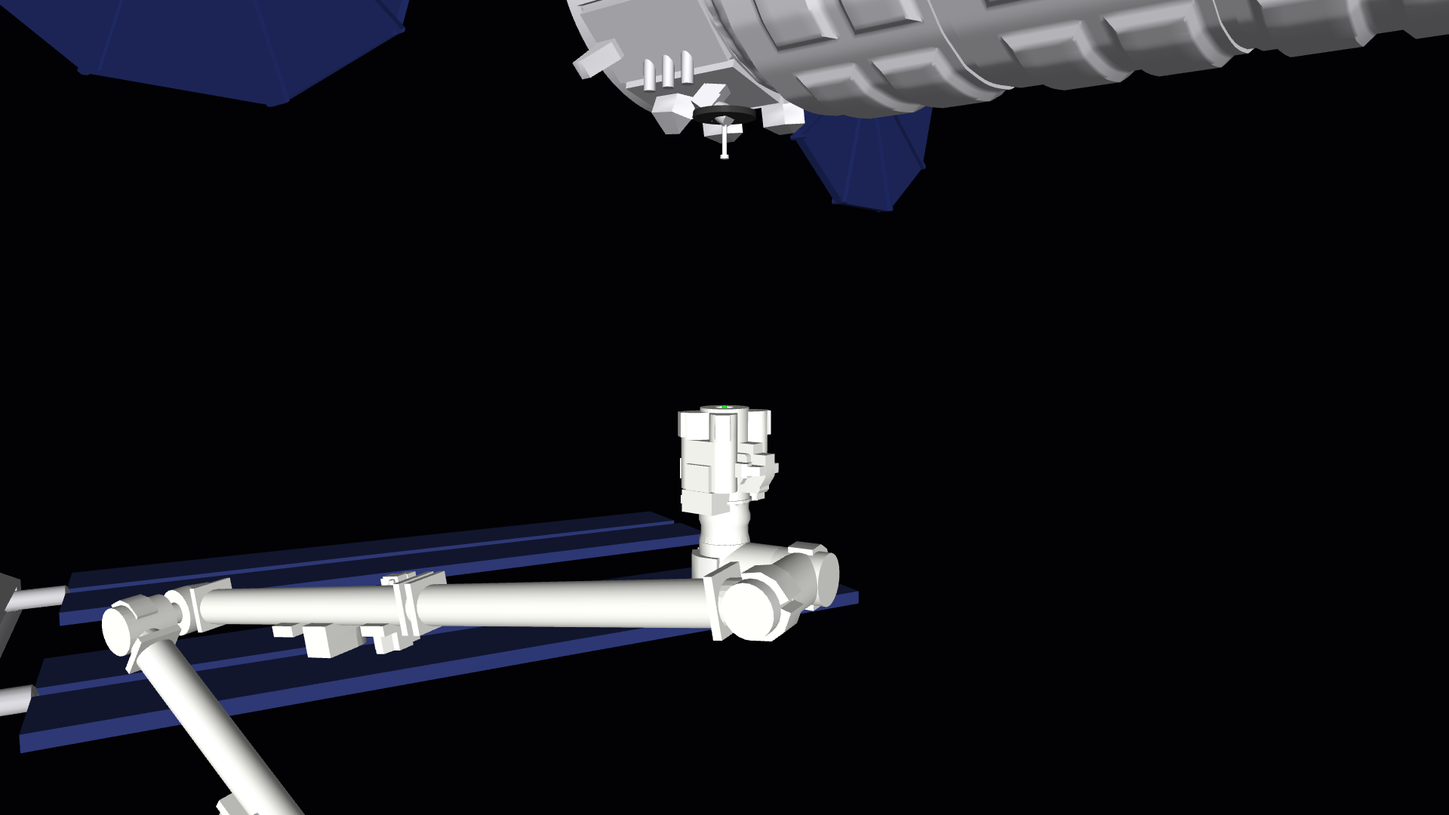
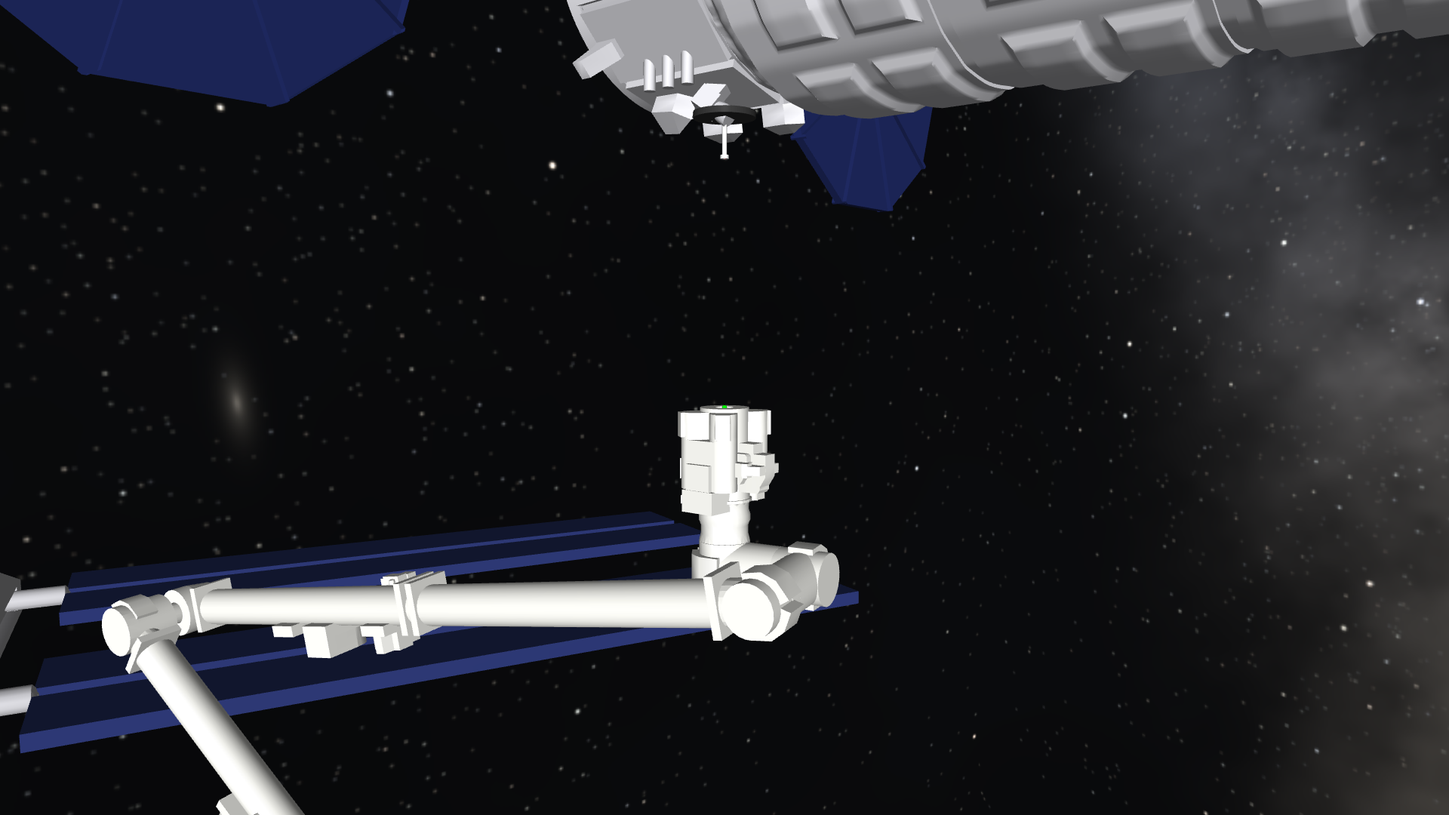
Restate the question, map the model's layers, and add a starry sky
The project's question is now general: when a contact-rich simulation
gives a result, how do you tell whether it is physics or an artefact of
how contact was modelled, and which modelling choices is it most
sensitive to? The capture is the case study. The two earlier questions
are kept in the plan for the record.

The plan gains the reasons for choosing this scenario, a map of the five
layers a contact-rich simulation has to account for, and a note on
treating guessed numbers as measurements with wide uncertainty.

scripts/make_sky.py paints an invented starry background as a cube map;
the scene uses it when the file exists. Appearance only.

Changed region(s): [[0.75, 0.0306, 1.0, 1.0], [0.125, 0.4583, 0.1875, 0.55]]

diff --git a/scripts/make_sky.py b/scripts/make_sky.py
@@ -1,0 +1,164 @@
+"""Paint a starry sky for the scene's background and save it as assets/processed/sky.png.
+
+    python scripts/make_sky.py [--size 1024] [--seed 7]
+
+The sky is invented: random stars, a band of glow with dust lanes standing in for the
+Milky Way, and a few faint smudges standing in for galaxies. It is not a map of the
+real sky. It is appearance only and changes nothing in the physics.
+
+The file is a cube map: six square faces stacked top to bottom in the order MuJoCo
+expects (+x, -x, +y, -y, +z, -z). scene.build_model uses it when it exists.
+"""
+
+import argparse
+from pathlib import Path
+
+import numpy as np
+from PIL import Image
+
+OUT = Path(__file__).resolve().parent.parent / "assets" / "processed" / "sky.png"
+
+# Direction of each pixel on a face, from its image coordinates s (right) and t (down),
+# both running from -1 to 1. The OpenGL cube map convention.
+FACES = [
+    lambda s, t: (np.ones_like(s), -t, -s),  # +x
+    lambda s, t: (-np.ones_like(s), -t, s),  # -x
+    lambda s, t: (s, np.ones_like(s), t),  # +y
+    lambda s, t: (s, -np.ones_like(s), -t),  # -y
+    lambda s, t: (s, -t, np.ones_like(s)),  # +z
+    lambda s, t: (-s, -t, -np.ones_like(s)),  # -z
+]
+
+
+def _unit(v) -> np.ndarray:
+    v = np.asarray(v, dtype=float)
+    return v / np.linalg.norm(v, axis=-1, keepdims=True)
+
+
+POLE = _unit([0.35, 0.45, 0.82])  # the bright band lies in the plane square to this
+
+
+def _lattice(ix, iy, iz, seed: int) -> np.ndarray:
+    """A repeatable pseudo-random number in [0, 1) for every integer lattice point."""
+    h = (ix * 374761393 + iy * 668265263 + iz * 2147483647 + seed * 1274126177) & 0xFFFFFFFF
+    h = ((h ^ (h >> 13)) * 1103515245) & 0xFFFFFFFF
+    return ((h ^ (h >> 16)) & 0xFFFFFF) / float(0x1000000)
+
+
+def _noise(p: np.ndarray, seed: int) -> np.ndarray:
+    """Smooth noise in 3D, so that it is continuous across the cube's edges."""
+    i = np.floor(p).astype(np.int64)
+    f = p - i
+    f = f * f * (3 - 2 * f)
+    out = 0.0
+    for dx in (0, 1):
+        for dy in (0, 1):
+            for dz in (0, 1):
+                w = (f[..., 0] if dx else 1 - f[..., 0]) * (f[..., 1] if dy else 1 - f[..., 1]) * (f[..., 2] if dz else 1 - f[..., 2])
+                out = out + w * _lattice(i[..., 0] + dx, i[..., 1] + dy, i[..., 2] + dz, seed)
+    return out
+
+
+def _clouds(d: np.ndarray, scale: float, seed: int, octaves: int = 5) -> np.ndarray:
+    """Layered noise in [0, 1]: big soft shapes with finer detail on top."""
+    total, amp, norm = 0.0, 1.0, 0.0
+    for k in range(octaves):
+        total = total + amp * _noise(d * scale * 2**k + 17.0 * k, seed + k)
+        norm += amp
+        amp *= 0.55
+    return total / norm
+
+
+def _galaxies(rng: np.random.Generator) -> list[tuple]:
+    """A few distant galaxies: where each is, how it is turned, its size, and its brightness."""
+    out = []
+    while len(out) < 4:
+        c = _unit(rng.normal(size=3))
+        if abs(c @ POLE) < 0.35:
+            continue  # keep them out of the band, where they would not be seen
+        a = _unit(np.cross(c, rng.normal(size=3)))
+        out.append((c, a, np.cross(c, a), np.radians(rng.uniform(0.5, 1.6)), rng.uniform(0.25, 0.8), rng.uniform(0.10, 0.22)))
+    return out
+
+
+def _glow(d: np.ndarray, galaxies: list[tuple], seed: int) -> np.ndarray:
+    """Colour of the diffuse sky in each direction d (unit vectors), before stars."""
+    centre = _unit(np.cross(POLE, [0.0, 0.0, 1.0]))  # brightest part of the band
+    lat = np.arcsin(np.clip(d @ POLE, -1, 1))
+    toward = d @ centre
+    lat = lat + np.radians(5.0) * (_clouds(d, 2.0, seed + 30, 3) - 0.5)  # a ragged edge
+    width = np.radians(5.5) * (1.0 + 1.1 * np.clip(toward, 0, 1) ** 3)
+    band = np.exp(-((lat / width) ** 2)) * (0.3 + 0.7 * np.clip(0.5 + 0.5 * toward, 0, 1) ** 2)
+    texture = np.clip((_clouds(d, 5.0, seed) - 0.3) * 2.2, 0, 1) ** 1.5
+    dust = np.clip((_clouds(d, 9.0, seed + 50) - 0.42) * 5.0, 0, 1) * np.exp(-((lat / np.radians(3.5)) ** 2))
+    level = band * (0.12 + 1.1 * texture) * (1.0 - 0.9 * dust)
+    warm = np.clip(toward, 0, 1)[..., None] ** 2  # yellower toward the centre, bluer away from it
+    tint = (1 - warm) * np.array([0.62, 0.72, 1.0]) + warm * np.array([1.0, 0.86, 0.66])
+    rgb = 0.2 * level[..., None] * tint
+    # a faint uneven haze everywhere, so the dark is not perfectly flat
+    rgb = rgb + 0.002 * _clouds(d, 1.5, seed + 90)[..., None] * np.array([0.6, 0.7, 1.0])
+
+    for c, a, b, size, squash, brightness in galaxies:  # soft elliptical smudges
+        r2 = ((d @ a) / size) ** 2 + ((d @ b) / (size * squash)) ** 2
+        smudge = np.where(d @ c > 0, np.exp(-np.sqrt(r2) * 1.6) + 0.5 * np.exp(-r2 * 6.0), 0.0)
+        rgb = rgb + brightness * smudge[..., None] * np.array([1.0, 0.92, 0.8])
+    return rgb
+
+
+def _add_stars(faces: np.ndarray, rng: np.random.Generator, n: int) -> None:
+    """Scatter stars over the cube. Most are faint; a few are bright and slightly coloured."""
+    size = faces.shape[1]
+    d = _unit(rng.normal(size=(3 * n, 3)))
+    # crowd more of them toward the band
+    keep = rng.random(3 * n) < 0.25 + 0.75 * np.exp(-((np.arcsin(np.clip(d @ POLE, -1, 1)) / np.radians(14.0)) ** 2))
+    d = d[keep][:n]
+    brightness = np.clip(0.03 * rng.pareto(1.5, size=len(d)) + 0.02, 0, 5.0)
+    temperature = rng.random(len(d))
+    colour = np.stack([0.75 + 0.25 * temperature, 0.82 + 0.1 * np.sin(np.pi * temperature), 1.0 - 0.3 * temperature], axis=1)
+
+    ax = np.argmax(np.abs(d), axis=1)
+    sign = np.sign(d[np.arange(len(d)), ax])
+    face = 2 * ax + (sign < 0)
+    x, y, z = d[:, 0], d[:, 1], d[:, 2]
+    m = np.abs(d[np.arange(len(d)), ax])
+    # the inverse of FACES: image coordinates of each direction on its face
+    s = np.choose(face, [-z, z, x, x, x, -x]) / m
+    t = np.choose(face, [-y, -y, z, -z, -y, -y]) / m
+    px, py = (s + 1) / 2 * size - 0.5, (t + 1) / 2 * size - 0.5
+    for f, cx, cy, b, c in zip(face, px, py, brightness, colour):
+        radius = 1 if b < 0.8 else (2 if b < 2.5 else 3)
+        x0, y0 = int(round(cx)), int(round(cy))
+        xs = np.arange(max(0, x0 - radius), min(size, x0 + radius + 1))
+        ys = np.arange(max(0, y0 - radius), min(size, y0 + radius + 1))
+        if not len(xs) or not len(ys):
+            continue
+        spread = 0.38 + 0.12 * radius
+        spot = np.exp(-((xs[None, :] - cx) ** 2 + (ys[:, None] - cy) ** 2) / (2 * spread**2))
+        faces[f, ys[:, None], xs[None, :]] += b * spot[..., None] * c
+
+
+def main() -> None:
+    parser = argparse.ArgumentParser(description=__doc__.split("\n")[0])
+    parser.add_argument("--size", type=int, default=1024, help="pixels along each cube face")
+    parser.add_argument("--seed", type=int, default=7)
+    parser.add_argument("--stars", type=int, default=30000)
+    args = parser.parse_args()
+
+    rng = np.random.default_rng(args.seed)
+    grid = (np.arange(args.size) + 0.5) / args.size * 2 - 1
+    s, t = np.meshgrid(grid, grid)
+    faces = np.empty((6, args.size, args.size, 3))
+    galaxies = _galaxies(rng)
+    for i, direction in enumerate(FACES):
+        d = _unit(np.stack(direction(s, t), axis=-1))
+        faces[i] = _glow(d, galaxies, args.seed)
+    _add_stars(faces, rng, args.stars)
+
+    image = np.clip(faces, 0, 1) ** (1 / 2.2)  # brightness to screen values
+    OUT.parent.mkdir(parents=True, exist_ok=True)
+    Image.fromarray((255 * image.reshape(6 * args.size, args.size, 3)).astype(np.uint8)).save(OUT, optimize=True)
+    print("wrote", OUT.relative_to(OUT.parent.parent.parent), f"({OUT.stat().st_size / 1e6:.1f} MB)")
+
+
+if __name__ == "__main__":
+    main()

diff --git a/capture/scene.py b/capture/scene.py
@@ -108,6 +108,19 @@ def _add_rim(spec: mujoco.MjSpec) -> None:
     plate.contype, plate.conaffinity = 0, RIM_BIT
 
 
+SKY = MESH_DIR / "sky.png"  # painted by scripts/make_sky.py
+
+
+def _use_sky(spec: mujoco.MjSpec) -> None:
+    """Replace the flat black background with the painted starry sky. Appearance only."""
+    sky = next(t for t in spec.textures if t.type == mujoco.mjtTexture.mjTEXTURE_SKYBOX)
+    sky.builtin = mujoco.mjtBuiltin.mjBUILTIN_NONE
+    sky.file = str(SKY)
+    sky.gridsize = [6, 1]
+    sky.gridlayout = "RLUDFB"
+    sky.width = sky.height = 0
+
+
 def meshes_available() -> bool:
     names = [*geometry.ARM_MESHES.values(), *geometry.VEHICLE_MESHES, *geometry.STATION_MESHES]
     return all((MESH_DIR / f"{n}.stl").exists() for n in names)
@@ -192,6 +205,8 @@ def build_model(
         meshes = meshes_available()
     if meshes:
         _use_meshes(spec)
+    if meshes and SKY.exists():
+        _use_sky(spec)
     return spec.compile()
 
 

diff --git a/scripts/plan_diagram.py b/scripts/plan_diagram.py
@@ -23,7 +23,7 @@ EXPERIMENTS = [
 ]
 
 # One line on what is happening right now, shown under the title.
-NOW = "Rim contact fixed: no snared pin is lost.  Next: rerun the sensitivity pilot, then restate the questions."
+NOW = "New question: is a simulated contact result physics or artefact?  Next: Dara works through the model, contact first."
 
 W, H = 1600, 860
 BG, CARD, EDGE = "#0f1b2d", "#1b2a40", "#2b3d57"

diff --git a/docs/PLAN.md b/docs/PLAN.md
@@ -7,25 +7,47 @@ Last updated: 2026-10-11.
 
 The diagram is generated by `scripts/plan_diagram.py`. Change a status there and rerun it.
 
-## The questions
+## The question
 
-**Main question.** Which of the model's assumptions decide where the simulated capture fails?
+**When a contact-rich simulation gives a result, how do you tell whether it is physics or an artefact of how contact was modelled, and which modelling choices is the result most sensitive to?**
 
-Take the point at which capture stops working, change one uncertain assumption at a time, and measure how far that point moves. The answer is a ranking: which parameters would be worth measuring carefully on real hardware, for this task and this model. It ties back to the claim the project started from, that contact-rich tasks depend on contact geometry, friction, compliance, and actuator behaviour.
+The capture is the case study, not the subject. The answer is meant to carry to any simulator and any task where a robot has to make and keep contact: a hand closing on a mug, a foot on gravel, a peg entering a hole. It has two parts:
 
-**Second question, about the mechanics.** Why do snared pins get lost?
+1. *Checks that catch a result that is not physics.* Does energy appear from nowhere? Are contact forces far beyond anything the machine can produce? Does the result change when a surface is represented a different way?
+2. *A ranking of what the result depends on.* Change one uncertain modelling choice at a time and measure how far the outcome moves.
 
-In harsh conditions most failures are pins that the snare closed on and that then escaped. What sets the limit: closing in time, or absorbing the motion left over once the snare has closed?
+The project already has one worked example of the first part. Until 2026-10-11 the model lost most snared pins in harsh conditions. Three physical explanations were written for it. All were wrong: the contact solver was failing on one pair of shapes, and changing how that one surface was represented took captures from 3 of 30 to 30 of 30.
 
-Both questions are about this simplified model. Neither claims to be new, and neither says anything directly about Canadarm2.
+The two earlier questions are kept for the record:
 
-## Why this project
+- *Which of the model's assumptions decide where the simulated capture fails?* This is now the second part of the question above, asked of this model.
+- *Why do snared pins get lost?* Answered on 2026-10-11: a contact failure in the model.
 
-Canadarm2 already captures cargo vehicles such as Cygnus, routinely. Nothing here is needed by that operation, and its real limits may be fully characterised in documents that are not public. A failure in this model is a failure of this model.
+## Why this scenario
 
-The capture is chosen as a concrete case for learning contact-rich robotics and simulation. Reaching the target is only the start: the arm has to make and keep contact with an object that is free to move, so the contact itself can change the outcome. That ties together tracking, mechanism geometry, contact forces, and simulation assumptions, which is the same set of concerns behind contact-rich manipulation on Earth.
+Canadarm2 already captures cargo vehicles such as Cygnus, routinely. This project solves no problem for that operation, and its real limits may be fully characterised in documents that are not public. A failure in this model is a failure of this model.
 
-The project is worthwhile as an engineering study if the model is transparent, the experiments are careful, the failures are explained, and the limits are stated. Whether it also yields a new finding is open, and would have to come from the results. No literature gap is claimed in advance.
+The scenario is chosen because it is harder than an arm on a desk picking up a mug, and it is real. The target weighs seven tonnes and is free to move. In zero gravity nothing holds it still, so a touch in the wrong place pushes it away, next to a crewed station. Reaching the target is only the start: the arm has to make and keep contact with it. And zero gravity strips away almost everything except contact, which makes it a clean place to see what a simulator's contact model is doing.
+
+There is also a personal aim. Dara is not from the space industry, and is building this to learn, by trying to replicate a real operation, everything a contact-rich simulation has to get right. The interest behind it is physical AI: robots are trained and tested in simulation, which only works if the simulated contact can be trusted.
+
+The project is worthwhile if the model is transparent, the experiments are careful, the failures are explained, and the limits are stated. No literature gap is claimed in advance.
+
+## What a contact-rich simulation has to account for
+
+Every design decision in this project belongs to one of five layers.
+
+| Layer | What has to be decided | Here |
+|---|---|---|
+| The world | What exists, its mass and where that mass sits, how parts are joined, gravity, what is fixed and what is free | `models/capture_base.xml`, `capture/scene.py` |
+| Contact | The simple shapes used for collision, which pairs may touch, how overlap becomes force, friction | The same files. This is where the lost-pin failure was |
+| The machine | Motors and their force limits and stiffness; mechanisms, and which are modelled and which are substitutes | Arm servos, snare drive, pull-in carriage, latch force |
+| The brain | What the controller can sense, how late and how noisy; how it turns that into commands; when it gives up | `capture/sensing.py`, `capture/controller.py` |
+| The experiment | Time step, repeatable scenarios, what counts as success, sanity checks, where each number comes from, what survives a change | `capture/trial.py`, `capture/batch.py`, `experiments/`, this plan |
+
+The first four layers are where modelling choices live. The fifth is how to find out which of them a result depends on.
+
+**Uncertainty.** Each number in the model is measured, required, borrowed, or guessed, and the tables below say which. A guessed number is treated like a measurement with a wide uncertainty in a physics lab: vary it across its plausible range and see how far the result moves. That is what the sensitivity experiments are.
 
 ## Definitions
 
@@ -82,7 +104,7 @@ A capture also has three stages of "done":
 
 Notes on the experiments:
 
-- **After the rim fix (2026-10-11).** With the plate seating on a ring of spheres, no pin is lost in any variant of the harsh batch: all 30 snared attempts are captured. The second question is answered (lost pins were a contact failure in the model). The first has lost its main pilot result, which came from the old rim. New leads: at friction 0.6, 20 of 30 snared attempts end caught but not rigid; and half the harsh batch never reaches the pin at all. The questions at the top of this plan need restating with Dara before experiments A and B are designed.
+- **After the rim fix (2026-10-11).** With the plate seating on a ring of spheres, no pin is lost in any variant of the harsh batch: all 30 snared attempts are captured. The sensitivity pilot's main result came from the old rim and has to be rerun. New leads: at friction 0.6, 20 of 30 snared attempts end caught but not rigid; and half the harsh batch never reaches the pin at all. Experiments A, B, and C are to be redesigned around the question at the top of this plan, after Dara has worked through the model's layers.
 - **After the load pilot (2026-10-11).** Every lost capture in the harsh batch ended in a numerical contact failure: tumble tilted the fixture plate into the end effector's rim, and the solver returned meganewton forces that threw the vehicle off. "Lost" counts before the rim fix measure that artefact.
 - **After the pilots.** Experiments A and B are not yet redesigned. The pilots found that the largest effect by far is a controller choice (when the arm goes limp), and that lost pins escape through soft stops and bar coupling in the rigid-bar snare. Both need deciding on before the full experiments are fixed. See the last two build log entries of 2026-10-10.
 
@@ -141,6 +163,9 @@ Notes on the experiments:
 | 2026-10-10 | Build option for the snare drive's force limit; controller option to go limp as soon as the snare closes | Needed to vary them one at a time in the pilots | Current. Both off by default; the default behaviour is unchanged |
 | 2026-10-11 | Hold the full experiments until the plate-on-rim contact is fixed | The load pilot showed all 50 lost captures in the harsh batch end in a solver blow-up at that contact | Done the same day |
 | 2026-10-11 | Fixture plate seats on a ring of 32 spheres, and collides with nothing else | The tops of the overlapping wall boxes gave the plate redundant contacts that the solver resolved with forces of up to 2.3 MN | Current. `rim="boxes"` rebuilds the old rim |
+| 2026-10-11 | One general question replaces the two specific ones: is a contact-rich result physics or artefact, and what is it sensitive to? | The capture solves no problem for the space industry. The answer should carry across physical AI and physics simulation | Current |
+| 2026-10-11 | Dara builds and Claude explains: work through the five layers one at a time, starting with contact | The point of the project is to learn the system design well enough to explain it | Current |
+| 2026-10-11 | Painted starry background, generated by `scripts/make_sky.py` | The scene was black. Appearance only; an invented sky, not a star map | Current |
 | 2026-10-10 | Treat the station as fixed and the arm as rigid | The station is about 60 times heavier than the vehicle; arm flexibility is left out to keep the first version simple | Current |
 
 ## Values the model uses, by where they come from

diff --git a/CLAUDE.md b/CLAUDE.md
@@ -2,6 +2,12 @@
 
 MuJoCo study of a station arm capturing a free-floating vehicle. Portfolio project; the build process is documented as carefully as the code.
 
+The question (agreed 2026-10-11): when a contact-rich simulation gives a result, how do you tell whether it is physics or an artefact of how contact was modelled, and which modelling choices is the result most sensitive to? The capture is the case study. It solves no problem for the space industry.
+
+## How to work with Dara
+
+Dara wants to be the one who builds this and to understand the system design well enough to explain it. Explain before changing. Prefer walking Dara through a change, or having them make it and predict the result, over doing it silently. The plan lists five layers (world, contact, machine, brain, experiment); the agreed path is to go through them one at a time, starting with contact.
+
 ## Documentation routine
 
 Do this as part of every piece of work, not at the end:
@@ -20,6 +26,7 @@ Do this as part of every piece of work, not at the end:
 - Renders: `.venv/bin/python scripts/render_scene.py`
 - Plan diagram: `.venv/bin/python scripts/plan_diagram.py`
 - Fetch 3D models (git-ignored, needed for mesh renders): `.venv/bin/python scripts/fetch_assets.py`
+- Starry background (git-ignored, appearance only): `.venv/bin/python scripts/make_sky.py`
 - Interactive viewer: `.venv/bin/mjpython scripts/view.py`
 
 ## Constraints
@@ -46,6 +53,6 @@ Read `docs/PLAN.md` (questions, milestones, decisions), `docs/RESEARCH.md` (sour
 - Pilots so far are written up in the build log (entries of 2026-10-10 and 2026-10-11). Tables are in `docs/data/`; files ending `_box_rim` are from before the rim fix. Before rerunning a pilot because a table is missing, check it is not still running (`pgrep -fl experiments/pilot_`).
 - Found 2026-10-11: every "lost" capture was a numerical contact failure where the tilted fixture plate met the tops of the overlapping wall boxes. Fixed the same day: the plate now seats on a ring of spheres (`scene._add_rim`; `rim="boxes"` rebuilds the old rim). In the harsh batch all 30 snared attempts are now captured, in every variant except friction 0.6 (10 captured, 20 caught but not rigid).
 - All batch results from before the fix, including the sensitivity pilot's "limp at close doubles the failure point", describe the old rim. `docs/data/pilot_sensitivity.csv` does not exist yet: the sensitivity pilot still has to be rerun (about 20 minutes on all cores; it was held because the laptop was on low battery).
-- Question 2 in the plan is answered and question 1 has lost its main pilot result. The questions need restating with the user before experiments A and B are designed. Do not run them unasked.
+- The plan's question was restated on 2026-10-11 (see the top of this file). Experiments A, B, and C are to be redesigned around it after Dara has worked through the layers. Do not run them unasked.
 - When investigating a failure, log contact forces and kinetic energy before explaining it. Three explanations of lost pins were written before anyone did.
 - Two Claude Code sessions once edited this repository at the same time and their work was mixed in one commit. Check `git status` and `git log` before editing.

diff --git a/docs/DEVLOG.md b/docs/DEVLOG.md
@@ -807,3 +807,23 @@ One attempt in each variant fires and misses, as before.
 - Every batch table before this entry, including R4's, was produced with the old rim.
 
 **Not done.** Experiments A and B are still undesigned. The plan's two questions need restating, since the second is answered and the first has lost its main result.
+
+## 2026-10-11 · Stepping back: what the project is for
+
+**Why.** Dara stopped the work to ask what problem this solves, why this industry, whether the real operation is already solved, and how any of it connects to physical AI and physics simulation. The plan's two questions had become specific to this model, and the work had been running ahead of Dara's own understanding of it.
+
+**Answers, in short.**
+
+- It solves no problem for the space industry. Canadarm2 does this routinely with a forgiving mechanism, a cooperative target, and a trained operator.
+- The scenario was chosen because it is harder and more consequential than a desk arm and a mug, and because zero gravity leaves contact as nearly the only thing going on.
+- The most useful thing produced so far is not about capture. It is the lost-pin episode: a convincing failure mode, three wrong physical explanations, and a cause that was numerical.
+
+**The new question.** When a contact-rich simulation gives a result, how do you tell whether it is physics or an artefact of how contact was modelled, and which modelling choices is the result most sensitive to? It replaces the two earlier questions, which are kept in the plan for the record.
+
+**How the work changes.** Dara builds and Claude explains. The plan now has a map of five layers (world, contact, machine, brain, experiment) and the agreed path is to go through them one at a time, starting with contact. The sensitivity pilot waits until Dara can say what it measures.
+
+**Uncertainty.** Dara's comparison with physics labs is the right one, and is now in the plan: a guessed number is a measurement with a wide uncertainty, and a sensitivity run is how its effect on the result is found.
+
+**Also built: a sky.** The background was flat black. `scripts/make_sky.py` paints a cube map of about 30,000 stars, a band of glow with dust lanes, and four faint galaxies, and the scene uses it when the file exists. It is invented, not a map of the real sky, and changes nothing in the physics. Checked by rendering wide views across the cube's edges and corners: the band is continuous. A real camera exposed for sunlit hardware would show few stars or none, and the Earth, which fills much of the real view, is not drawn.
+
+**Checks.** 52 pass.

diff --git a/README.md b/README.md
@@ -1,10 +1,10 @@
 # canadarm-capture
 
-A MuJoCo case study of a spacecraft capture. A simplified model of a space station arm catches a free-drifting cargo vehicle; the project looks at how that model succeeds and fails, and how much the answers depend on its own assumptions.
+A MuJoCo case study of a spacecraft capture. A simplified model of a space station arm catches a free-drifting cargo vehicle. The question behind it is general: when a contact-rich simulation gives a result, how do you tell whether it is physics or an artefact of how contact was modelled, and which modelling choices does the result depend on?
 
 Inspired by Canadarm2 capturing Cygnus, which the real arm does routinely. This project does not reproduce that system's flight limits, and a failure here is a failure of this model.
 
-**Status:** in progress. The arm approaches a drifting, tumbling vehicle from the 10 m capture point, snares its grapple pin, pulls it in, and latches, with delayed and noisy sensing. A batch runner records how each attempt ends and at which stage it failed. The systematic experiments have not been run yet. See the [research notes](docs/RESEARCH.md), the [plan](docs/PLAN.md), and the [build log](docs/DEVLOG.md).
+**Status:** in progress. The arm approaches a drifting, tumbling vehicle from the 10 m capture point, snares its grapple pin, pulls it in, and latches, with delayed and noisy sensing. A batch runner records how each attempt ends and at which stage it failed. Pilot runs found, and fixed, a contact failure in the model that had looked like a physical failure mode. The systematic experiments have not been run yet. See the [research notes](docs/RESEARCH.md), the [plan](docs/PLAN.md), and the [build log](docs/DEVLOG.md).
 
 ![Project plan](docs/media/plan.svg)
 
@@ -30,6 +30,12 @@ That runs with plain stand-in shapes. To use the real 3D models, fetch them once
 ```bash
 .venv/bin/pip install -e ".[assets]"
 .venv/bin/python scripts/fetch_assets.py
+```
+
+For a starry background in place of plain black (an invented sky, generated locally):
+
+```bash
+.venv/bin/python scripts/make_sky.py
 ```
 
 To watch a capture interactively on macOS:
